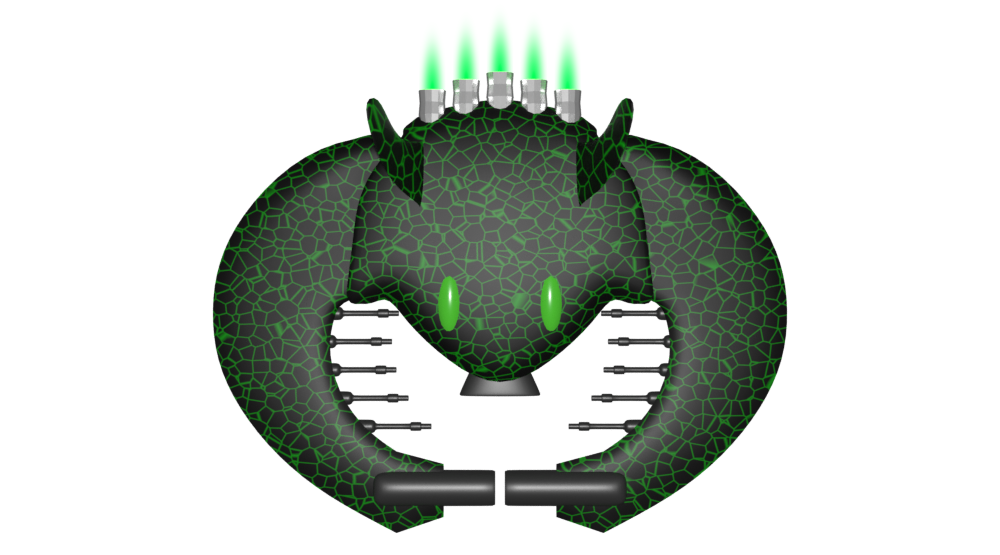
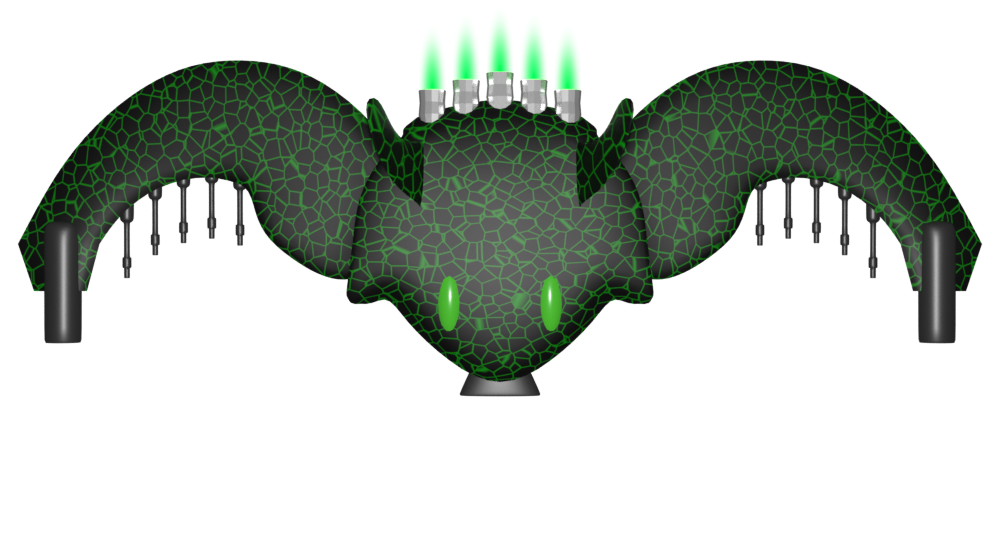
WIP: Created one more image set for the second boss, added all the images to the game assets and started to implement the second boss.

diff --git a/enemy.py b/enemy.py
@@ -2,6 +2,7 @@ import settings as stgs
 from projectile import EnemyProjectile
 from healthbar import Healthbar
 from upgrades import Upgrade
+# from icecream import ic
 
 import pygame as pg
 from random import randint, choice
@@ -52,7 +53,6 @@ class Enemy(pg.sprite.Sprite):
             self.kill()
         
         
-
 class EnemyShip1(Enemy):
     def __init__(self, game, enemy_number, enemy_group, pos):
         super().__init__(game, "enemy1", enemy_number, enemy_group, pos)
@@ -327,3 +327,223 @@ class Boss1(Enemy):
 
     def fire_rocket(self):
         EnemyProjectile(self.game, "rocket1", self.rocket_damage, (self.pos.x + self.image.get_width() // 2, self.pos.y + self.image.get_height() - 20), "green")
+
+
+class Boss2(Enemy):
+    def __init__(self, game,  enemy_number, enemy_group, pos):
+        super().__init__(game, "boss2", enemy_number, enemy_group, pos)
+        self.game = game
+        self.state = "flight"
+        self.state_hold_time = randint(1, 15)
+        self.state_timer = 0
+        self.speed_x = 50
+        self.laser_damage = 20
+        self.rocket_damage = 80
+        self.fire_mode = None
+        self.shoot_timer = 0
+        self.hold_fire = randint(1, 10)
+        self.shooting_state = "not shooting"
+        self.projectile_interval_timer = 0
+        self.shot_counter = 0
+
+        self.active_laser = 0
+        self.laser_shifter = 1
+        self.second_active_laser = 11
+
+        self.game.spaceship.auto_fire = False
+        self.handle_image_and_mask()
+
+    def create_mask(self):
+        self.mask = pg.mask.from_surface(self.image)    
+
+    def set_x_direction(self):
+        if self.state == "left":
+            self.direction.x = -1
+        elif self.state == "right":
+            self.direction.x = 1
+        else:
+            self.direction.x = 0
+
+    def handle_state(self, dt):
+        self.state_timer += dt
+        if self.state_timer >= self.state_hold_time:
+            old_state = self.state
+            self.state = choice(["left", "right", "idle"])
+            self.state_hold_time = randint(1, 15)
+            self.state_timer = 0
+            if old_state != self.state:
+                self.handle_image_and_mask()
+                self.set_x_direction()
+
+    def handle_image_and_mask(self):
+        self.animation = self.game.assets["boss2/" + self.state].copy()
+        self.rect = self.image.get_rect(center = self.pos)
+        self.create_mask()
+
+    def update(self, dt):
+        self.animation.update(dt)
+        self.image = self.animation.get_img()
+        if self.pos.y < 20:
+            self.direction.y = 1
+            self.direction.x = 0
+            
+        else:
+            if not self.game.spaceship.auto_fire:
+                self.game.spaceship.auto_fire = True
+            self.direction.y = 0
+            self.handle_state(dt)
+            if self.shooting_state == "not shooting":
+                self.handle_shooting(dt)
+                
+        self.pos.y += self.direction.y * self.speed_y * dt
+        self.pos.x += self.direction.x * self.speed_x * dt
+
+        if self.pos.x < 0:
+            self.pos.x = 0
+            self.direction.x *= -1
+            self.state = "right"
+            self.handle_image_and_mask()
+
+        if self.pos.x + self.image.get_width() > stgs.GAME_WINDOW_RESOLUTION[0]:
+            self.pos.x = stgs.GAME_WINDOW_RESOLUTION[0] - self.image.get_width()
+            self.direction.x *= -1
+            self.state = "left"
+            self.handle_image_and_mask()
+
+        self.rect.x = self.pos.x
+        self.rect.y = self.pos.y
+
+        self.healthbar.update(self.health, self.pos)
+        self.fire_weapons(dt)
+
+    def handle_shooting(self, dt):
+        self.shoot_timer += dt
+        if self.shoot_timer >= self.hold_fire:
+            self.fire_mode = choice(["all", "cylone", "knight_rider", "laola", "random", "rocket", "upgrade"])
+            self.shooting_state = "shooting"
+
+    def reset_shooting(self):
+        self.shooting_state = "not shooting"
+        self.shoot_timer = 0
+        self.hold_fire = randint(1, 10)
+        self.shot_counter = 0
+
+    def fire_weapons(self, dt):
+        if self.shooting_state == "shooting":
+            self.projectile_interval_timer += dt
+
+            if self.fire_mode == "all":
+                if self.projectile_interval_timer >= 1:
+                    for i in range(13):
+                        self.fire_weapon(i + 1)
+                    self.shot_counter += 1
+                    self.projectile_interval_timer = 0
+                    if self.shot_counter > 10:
+                        self.reset_shooting()
+
+            elif self.fire_mode == "cylone":
+                if self.projectile_interval_timer >= 0.1:
+                    self.active_laser += self.laser_shifter
+                    self.second_active_laser -= self.laser_shifter
+                        
+                    if self.active_laser > 5:
+                        self.active_laser = 4
+                        self.second_active_laser = 7
+                        self.laser_shifter *= -1
+                    elif self.active_laser < 1:
+                        self.active_laser = 2
+                        self.second_active_laser = 9
+                        self.laser_shifter *= -1
+                    self.fire_weapon(self.active_laser)
+                    self.fire_weapon(self.second_active_laser)
+                    self.projectile_interval_timer = 0
+                    self.shot_counter += 1
+
+                        
+                if self.shot_counter > 47:
+                    self.reset_shooting()
+                    self.active_laser = 0
+                    self.second_active_laser = 11
+
+            elif self.fire_mode == "knight_rider":
+                if self.projectile_interval_timer >= 0.1:
+                    self.active_laser += self.laser_shifter
+                    if self.active_laser > 10:
+                        self.active_laser = 9
+                        self.laser_shifter *= -1
+                    elif self.active_laser < 1:
+                        self.active_laser = 2
+                        self.laser_shifter *= -1
+                    self.fire_weapon(self.active_laser)
+                    self.projectile_interval_timer = 0
+                    self.shot_counter += 1
+                        
+                if self.shot_counter > 90:
+                    self.reset_shooting()
+                    self.active_laser = 0
+            
+            elif self.fire_mode == "laola":
+                if self.projectile_interval_timer >= 0.1:
+                    self.active_laser += self.laser_shifter
+                    if self.active_laser > 10:
+                        self.active_laser = 1
+                    self.fire_weapon(self.active_laser)
+                    self.projectile_interval_timer = 0
+                    self.shot_counter += 1
+                        
+                if self.shot_counter >= 100:
+                    self.reset_shooting()
+                    self.active_laser = 0
+
+            elif self.fire_mode == "random":
+                if self.projectile_interval_timer >= 0.5:
+                    laser_number = randint(1, 10)
+                    self.fire_weapon(laser_number)
+                    self.shot_counter += 1
+                    self.projectile_interval_timer = 0
+                    if self.shot_counter > 10:
+                        self.reset_shooting()
+
+            elif self.fire_mode == "rocket":
+                if self.projectile_interval_timer >= 1:
+                    self.fire_weapon(11)
+                    self.fire_weapon(12)
+                    self.shot_counter += 1
+                    self.projectile_interval_timer = 0
+                if self.shot_counter > 10:
+                    self.reset_shooting()
+
+            elif self.fire_mode == "upgrade":
+                Upgrade(self.game, (self.pos.x + self.image.get_width() // 2, self.pos.y + self.image.get_height() // 2))
+                self.reset_shooting()
+
+
+    def fire_weapon(self, weapon_number):
+        if weapon_number == 1:
+            EnemyProjectile(self.game, "laser", self.laser_damage, (self.pos.x + 96, self.pos.y + 202), "green")      
+        elif weapon_number == 2:
+            EnemyProjectile(self.game, "laser", self.laser_damage, (self.pos.x + 117, self.pos.y + 184), "green")
+        elif weapon_number == 3:
+            EnemyProjectile(self.game, "laser", self.laser_damage, (self.pos.x + 138, self.pos.y + 175), "green")
+        elif weapon_number == 4:
+            EnemyProjectile(self.game, "laser", self.laser_damage, (self.pos.x + 159, self.pos.y + 171), "green")       
+        elif weapon_number == 5:
+            EnemyProjectile(self.game, "laser", self.laser_damage, (self.pos.x + 180, self.pos.y + 176), "green")       
+        elif weapon_number == 6:
+            EnemyProjectile(self.game, "laser", self.laser_damage, (self.pos.x + 571, self.pos.y + 176), "green")
+        elif weapon_number == 7:
+            EnemyProjectile(self.game, "laser", self.laser_damage, (self.pos.x + 592, self.pos.y + 171), "green")
+        elif weapon_number == 8:
+            EnemyProjectile(self.game, "laser", self.laser_damage, (self.pos.x + 613, self.pos.y + 175), "green")
+        elif weapon_number == 9:
+            EnemyProjectile(self.game, "laser", self.laser_damage, (self.pos.x + 634, self.pos.y + 184), "green")
+        elif weapon_number == 10:
+            EnemyProjectile(self.game, "laser", self.laser_damage, (self.pos.x + 655, self.pos.y + 202), "green")
+        elif weapon_number == 11:
+            EnemyProjectile(self.game, "rocket1", self.rocket_damage, (self.pos.x + 46, self.pos.y + 188), "green")
+        elif weapon_number == 12:
+            EnemyProjectile(self.game, "rocket1", self.rocket_damage, (self.pos.x + 705, self.pos.y + 188), "green")
+        elif weapon_number == 13:  # sprayer
+            EnemyProjectile(self.game, "laser", self.laser_damage, (self.pos.x + self.image.get_width() // 2, self.pos.y + 247), "green")
+            EnemyProjectile(self.game, "laser", self.laser_damage, (self.pos.x + self.image.get_width() // 2, self.pos.y + 247), "green")
+            EnemyProjectile(self.game, "laser", self.laser_damage, (self.pos.x + self.image.get_width() // 2, self.pos.y + 247), "green")

diff --git a/main.py b/main.py
@@ -44,6 +44,11 @@ class Game:
             "boss1/idle": Animation(load_images("enemies/boss1/idle", scale_factor=0.75), animation_duration=0.5, loop=True),
             "boss1/left": Animation(load_images("enemies/boss1/left(right)", scale_factor=0.75), animation_duration=0.5, loop=True),
             "boss1/right": Animation(load_images("enemies/boss1/right(left)", scale_factor=0.75), animation_duration=0.5, loop=True),
+            "boss2/idle": Animation(load_images("enemies/boss2/idle", scale_factor=0.75), animation_duration=0.5, loop=True),
+            "boss2/left": Animation(load_images("enemies/boss2/left(right)", scale_factor=0.75), animation_duration=0.5, loop=True),
+            "boss2/right": Animation(load_images("enemies/boss2/right(left)", scale_factor=0.75), animation_duration=0.5, loop=True),
+            "boss2/flight": Animation(load_images("enemies/boss2/flight", scale_factor=0.75), animation_duration=0.5, loop=True),
+            "boss2/open": Animation(load_images("enemies/boss2/open", scale_factor=0.75), animation_duration=1, loop=False),
             "laser": load_images("ammo/lasers", scale_factor=0.5),
             "rocket1": Animation(load_images("ammo/rockets/rocket1", scale_factor=0.25), animation_duration=2, loop=True),
             "upgrade/background": load_images("upgrades/backgrounds", scale_factor=0.5),
@@ -67,8 +72,8 @@ class Game:
         self.drones_max = 2
         self.run = True
         self.score = 0
-        self.phase = 1
-        self.wave = 0
+        self.phase = 2
+        self.wave = 19
         self.sprayer_state = 0
 
     def add_drones(self):
@@ -175,8 +180,8 @@ class Game:
     def update_groups(self, dt):  
         self.player_group.update(dt, self.move_x, self.move_y)
         self.player_projectile_group.update(dt)
-        self.enemy_group.update(dt)
         self.enemy_projectile_group.update(dt)
+        self.enemy_group.update(dt)
         self.upgrade_group.update(dt)
 
         for projectile_hit in self.fx_list:
@@ -202,8 +207,8 @@ class Game:
 
         self.draw_score()
         self.upgrade_group.draw(self.game_window)
-        self.enemy_group.draw(self.game_window)
         self.enemy_projectile_group.draw(self.game_window)
+        self.enemy_group.draw(self.game_window)
         self.player_projectile_group.draw(self.game_window)
         self.player_group.draw(self.game_window)
         for effect in self.fx_list:

diff --git a/spaceship.py b/spaceship.py
@@ -35,6 +35,7 @@ class Spaceship(pg.sprite.Sprite):
         self.laser_damage = 10
         self.rocket_damage = 50
         self.current_weapon_damage = self.laser_damage
+        self.auto_fire = True
 
         self.healthbar = Healthbar(self.game, self.max_health, self.health, self.image.get_width(), self.pos, self.image.get_height())
 
@@ -59,7 +60,8 @@ class Spaceship(pg.sprite.Sprite):
             self.create_mask()
 
         self.flip_image = True if (move_x[1] - move_x[0]) > 0 else False
-        self.auto_fire(dt)
+        if self.auto_fire:
+            self.fire_weapons(dt)
         self.animation.update(dt)
 
         self.ship_image = self.animation.get_img()
@@ -97,7 +99,7 @@ class Spaceship(pg.sprite.Sprite):
 
         self.healthbar.update(self.health, self.pos)
 
-    def auto_fire(self, dt):
+    def fire_weapons(self, dt):
         self.shoot_timer += dt
         if self.weapon == "laser":
             if self.shoot_timer > max(0.1, self.laser_fire_rate):

diff --git a/enemy_creator.py b/enemy_creator.py
@@ -13,5 +13,7 @@ def enemy_creator(game, enemy_group, phase, wave):
             EnemyShip2(game, stgs.enemy_waves[phase][wave][i], enemy_group, (x_pos + x_pos * i, -50))
         if stgs.enemy_waves[phase][wave][i] == 3:
             EnemyShip3(game, stgs.enemy_waves[phase][wave][i], enemy_group, (x_pos + x_pos * i, -50))
-        if stgs.enemy_waves[phase][wave][i] >= 100:
+        if stgs.enemy_waves[phase][wave][i] == 100:
             Boss1(game, stgs.enemy_waves[phase][wave][i], enemy_group, (x_pos + x_pos * i, -50))
+        if stgs.enemy_waves[phase][wave][i] == 120:
+            Boss2(game, stgs.enemy_waves[phase][wave][i], enemy_group, (x_pos + x_pos * i, -50))
